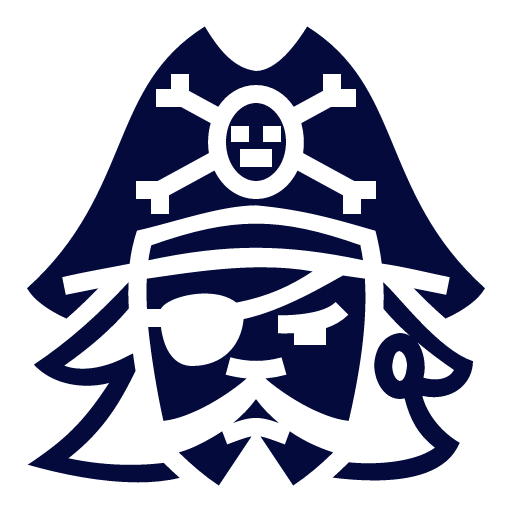
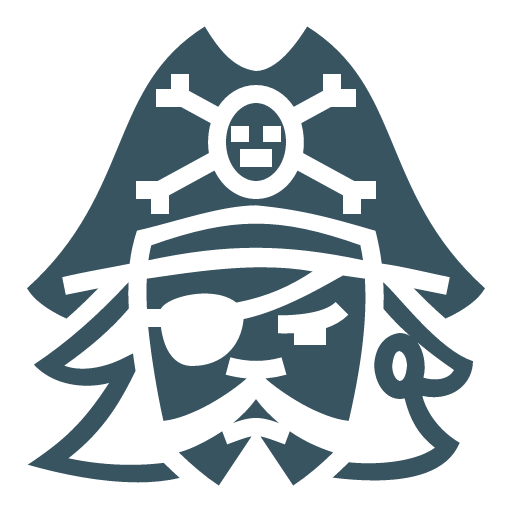
Modified edit_profile route so it redirects to profile after applying changes, added background images and css to enhance the theme of the project.

diff --git a/static/css/style.css b/static/css/style.css
@@ -1,7 +1,49 @@
+/* ----------------- Document ----------------- */
+
+html {
+    background-color: #B1F4FC;
+    color: black;
+}
+
+form .input-field input, form .input-field label {
+    color: black;
+}
+
+.btn {
+    background-image: url('../images/dark_wood.png');
+    background-repeat: repeat;
+    color: white;
+}
+
+.card-panel {
+    background-image: url('../images/wood_pattern.png');
+    background-repeat: repeat;
+    border: 2px outset gray;
+}
+
 /* ----------------- Base ----------------- */
 
 header {
     margin-bottom: 20px;
+}
+
+.nav-wrapper {
+    background-color: #395461;
+}
+
+.sidenav h4 {
+    color: #395461;
+}
+
+.collapsible {
+    background-image: url('../images/tex_Water.png');
+    background-repeat: repeat;
+}
+
+.collapsible-header {
+    background-image: url('../images/tex_Water.png');
+    background-repeat: repeat;
+    border-bottom: none;
 }
 
 .logo {
@@ -14,22 +56,24 @@ header {
     vertical-align: sub;
 }
 
+.nav-wrapper .right .input-field .search-hidden {
+    width: 0vw;
+    transition: width 0.5s;
+}
+
+.nav-wrapper .right .input-field .search-shown {
+    width: 30vw;
+    transition: width 0.5s;
+}
+
 /* ----------------- Index  ----------------- */
 
 .topic {
     padding-top: 20px;
     padding-bottom: 20px;
-    border: 2px double black;
-}
-
-.nav-wrapper .right .input-field .search-hidden {
-    width: 0rem;
-    transition: width 0.5s;
-}
-
-.nav-wrapper .right .input-field .search-shown {
-    width: 20rem;
-    transition: width 0.5s;
+    border: 2px outset gray;
+    background-image: url('../images/wood_pattern.png');
+    background-repeat: repeat;
 }
 
 /* ----------------- Discussion  ----------------- */
@@ -38,7 +82,7 @@ header {
     border: 2px double black;
 }
 
-.user-portrait{
+.user-portrait {
     font-size: 49px;
 }
 
@@ -79,17 +123,29 @@ header {
     top: 0px;
 }
 
-.post p{
+.post p {
     font-size: 14px;
 }
 
 /* ----------------- Profile  ----------------- */
 
-.profile-picture{
+.profile-picture {
     height: 250px;
     width: 250px;
 }
 
-.profile-info{
+.profile-info {
     font-size: 20px;
+}
+
+/* ----------------- Profile  ----------------- */
+@media screen and (max-width: 500px) {
+    .logo-text {
+        display: none;
+    }
+
+    .nav-wrapper .right .input-field .search-shown {
+    width: 40vw;
+    transition: width 0.5s;
+}
 }

diff --git a/templates/base.html b/templates/base.html
@@ -25,8 +25,8 @@
             <div class="nav-wrapper">
                 <!-- Logo -->
                 <a href="{{ url_for('index') }}" class="left valign-wrapper"><img class="logo"
-                        src="{{ url_for('static', filename='images/logo.png') }}" alt="Jolly Roger logo">Virtual
-                    Parlay</a>
+                        src="{{ url_for('static', filename='images/logo.png') }}" alt="Jolly Roger logo"><span class="logo-text">Virtual
+                    Parlay</span></a>
                 <!-- Mobile Trigger -->
                 <a href="#" data-target="mobile-trigger" class="sidenav-trigger right"><i class="fas fa-bars"></i></a>
                 <!-- Button Menu -->
@@ -53,7 +53,7 @@
         <!-- Mobile sidenav -->
         <ul class="sidenav" id="mobile-trigger">
             <li>
-                <h4 class="center-align light-blue-text text-darken-4">Virtual Parlay</h4>
+                <h4 class="center-align">Virtual Parlay</h4>
             </li>
             <li><a href="{{ url_for('index') }}">All Topics</a></li>
             {% if session.user_id %}

diff --git a/templates/index.html b/templates/index.html
@@ -5,7 +5,9 @@
     <ul class="collapsible">
         <li>
             <!-- New Topic button -->
-            <div class="row collapsible-header">New Topic</div>
+            <div class="collapsible-header">
+                <p>New Topic</p>
+            </div>
             <!-- New Topic form -->
             <form class="collapsible-body" method="POST" action="{{ url_for('index') }}">
                 <div class="card-panel">

diff --git a/run.py b/run.py
@@ -142,7 +142,8 @@ def edit_profile(user_id):
     user = mongo.db.users.find_one(
         {"_id": ObjectId(user_id)})
 
-    # Update user and flash message confirming changes 
+    # Update user and flash message confirming changes, then redirects
+    # to updated profile page
     if request.method == "POST":
         submit = {
             "rank": "user",
@@ -155,9 +156,10 @@ def edit_profile(user_id):
         }
         mongo.db.users.update({"_id": ObjectId(user_id)}, submit)
         flash("Profile Successfully Updated")
+        return redirect(url_for("profile", user_id=user_id))
 
     # Allows user to edit own profile only if logged in, otherwise
-    # redirect to main page 
+    # redirect to main page
     if user_id == session['user_id']:
         return render_template("edit_profile.html", user=user)
 
@@ -213,7 +215,7 @@ def login():
 
         if existing_user:
             # Ensures hashed password matches user input, sets cookies,
-            # shows message welcoming user and redirects to profile 
+            # shows message welcoming user and redirects to profile
             if check_password_hash(
                     existing_user["password"],
                     request.form.get("password")):
